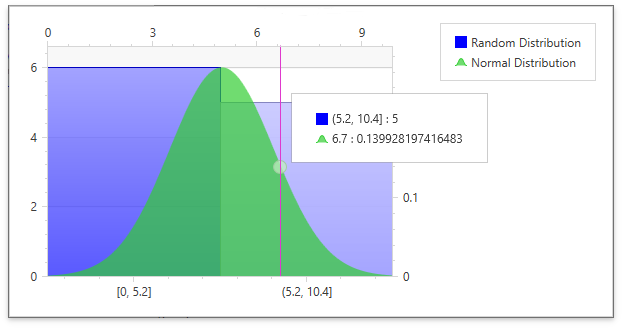
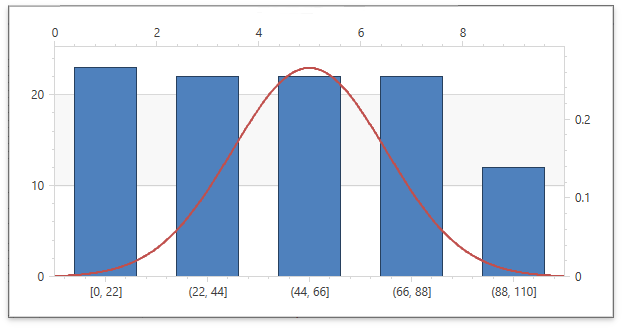
change solutions

diff --git a/VB/Window1.xaml b/VB/Window1.xaml
@@ -1,8 +1,11 @@
 <Window x:Class="SideBySideBar2DChart.Window1" 
         xmlns="http://schemas.microsoft.com/winfx/2006/xaml/presentation" 
         xmlns:x="http://schemas.microsoft.com/winfx/2006/xaml" 
+        xmlns:dxmvvm="http://schemas.devexpress.com/winfx/2008/xaml/mvvm"
         xmlns:dxc="http://schemas.devexpress.com/winfx/2008/xaml/charts" 
-        Title="WPF Chart" Height="350" Width="620">
+        xmlns:local="clr-namespace:SideBySideBar2DChart"
+        Title="WPF Chart" Height="350" Width="620"
+        DataContext="{dxmvvm:ViewModelSource Type=local:ViewModel}">
     <Grid>
         <dxc:ChartControl Name="chartControl1">
             <dxc:ChartControl.Diagram>
@@ -27,42 +30,32 @@
                     </dxc:XYDiagram2D.SecondaryAxesX>
 
                     <dxc:XYDiagram2D.SecondaryAxesY>
-                        <dxc:SecondaryAxisY2D Name="DistributionAxis"/>
+                        <dxc:SecondaryAxisY2D Name="secondaryAxisY"/>
                     </dxc:XYDiagram2D.SecondaryAxesY>
 
                     <dxc:XYDiagram2D.Series>
                         <dxc:BarStackedSeries2D 
-                            BarWidth="1"
-                            x:Name="Bars"
-                            LabelsVisibility="False" 
-                            DisplayName="Random Distribution" 
+                            DataSource="{Binding Histogram}"
+                            DisplayName="Histogram" 
+                            ArgumentDataMember = "XValue"
+                            ValueDataMember = "YValue"
                             ArgumentScaleType="Numerical"
-                            Opacity="0.3"
-                            Brush="Blue"
-                            AggregateFunction="Histogram">
-                            
-                            <dxc:BarStackedSeries2D.Model>
-                                <dxc:TransparentBar2DModel/>
-                            </dxc:BarStackedSeries2D.Model>
-                        </dxc:BarStackedSeries2D>
+                            AggregateFunction="Histogram"/>
 
-                        <dxc:SplineAreaSeries2D
-                            x:Name="Spline"
+                        <dxc:SplineSeries2D
+                            DataSource="{Binding NormalDistribution}"
                             DisplayName="Normal Distribution"
-                            Transparency="0.3"
+                            ArgumentDataMember = "XValue"
+                            ValueDataMember = "YValue"
                             AggregateFunction="None"
                             ArgumentScaleType="Numerical"
                             AxisX="{Binding ElementName=secondaryAxisX}"
-                            AxisY="{Binding ElementName=DistributionAxis}"
-                            Brush="LimeGreen">
-                        </dxc:SplineAreaSeries2D>
+                            AxisY="{Binding ElementName=secondaryAxisY}">
+                        </dxc:SplineSeries2D>
 
                     </dxc:XYDiagram2D.Series>
                 </dxc:XYDiagram2D>
             </dxc:ChartControl.Diagram>
-            <dxc:ChartControl.Legend>
-                <dxc:Legend />
-            </dxc:ChartControl.Legend>
         </dxc:ChartControl>
     </Grid>
 </Window>

diff --git a/CS/Window1.xaml b/CS/Window1.xaml
@@ -1,8 +1,11 @@
 <Window x:Class="SideBySideBar2DChart.Window1" 
         xmlns="http://schemas.microsoft.com/winfx/2006/xaml/presentation" 
         xmlns:x="http://schemas.microsoft.com/winfx/2006/xaml" 
+        xmlns:dxmvvm="http://schemas.devexpress.com/winfx/2008/xaml/mvvm"
         xmlns:dxc="http://schemas.devexpress.com/winfx/2008/xaml/charts" 
-        Title="WPF Chart" Height="350" Width="620">
+        xmlns:local="clr-namespace:SideBySideBar2DChart"
+        Title="WPF Chart" Height="350" Width="620"
+        DataContext="{dxmvvm:ViewModelSource Type=local:ViewModel}">
     <Grid>
         <dxc:ChartControl Name="chartControl1">
             <dxc:ChartControl.Diagram>
@@ -27,42 +30,32 @@
                     </dxc:XYDiagram2D.SecondaryAxesX>
 
                     <dxc:XYDiagram2D.SecondaryAxesY>
-                        <dxc:SecondaryAxisY2D Name="DistributionAxis"/>
+                        <dxc:SecondaryAxisY2D Name="secondaryAxisY"/>
                     </dxc:XYDiagram2D.SecondaryAxesY>
 
                     <dxc:XYDiagram2D.Series>
                         <dxc:BarStackedSeries2D 
-                            BarWidth="1"
-                            x:Name="Bars"
-                            LabelsVisibility="False" 
-                            DisplayName="Random Distribution" 
+                            DataSource="{Binding Histogram}"
+                            DisplayName="Histogram" 
+                            ArgumentDataMember = "XValue"
+                            ValueDataMember = "YValue"
                             ArgumentScaleType="Numerical"
-                            Opacity="0.3"
-                            Brush="Blue"
-                            AggregateFunction="Histogram">
-                            
-                            <dxc:BarStackedSeries2D.Model>
-                                <dxc:TransparentBar2DModel/>
-                            </dxc:BarStackedSeries2D.Model>
-                        </dxc:BarStackedSeries2D>
+                            AggregateFunction="Histogram"/>
 
-                        <dxc:SplineAreaSeries2D
-                            x:Name="Spline"
+                        <dxc:SplineSeries2D
+                            DataSource="{Binding NormalDistribution}"
                             DisplayName="Normal Distribution"
-                            Transparency="0.3"
+                            ArgumentDataMember = "XValue"
+                            ValueDataMember = "YValue"
                             AggregateFunction="None"
                             ArgumentScaleType="Numerical"
                             AxisX="{Binding ElementName=secondaryAxisX}"
-                            AxisY="{Binding ElementName=DistributionAxis}"
-                            Brush="LimeGreen">
-                        </dxc:SplineAreaSeries2D>
+                            AxisY="{Binding ElementName=secondaryAxisY}">
+                        </dxc:SplineSeries2D>
 
                     </dxc:XYDiagram2D.Series>
                 </dxc:XYDiagram2D>
             </dxc:ChartControl.Diagram>
-            <dxc:ChartControl.Legend>
-                <dxc:Legend />
-            </dxc:ChartControl.Legend>
         </dxc:ChartControl>
     </Grid>
 </Window>

diff --git a/CS/Window1.xaml.cs b/CS/Window1.xaml.cs
@@ -4,54 +4,34 @@ using System.Collections.ObjectModel;
 using System.Windows;
 
 namespace SideBySideBar2DChart {
-
     public partial class Window1 : Window {
 
         private Random random = new Random();
         public Window1() {
             InitializeComponent();
+        }
+    }
 
-            RandomDistribution = new ObservableCollection<DataPoint>();
+    public class ViewModel {
+        public ObservableCollection<DataPoint> NormalDistribution { get; private set; }
+        public ObservableCollection<DataPoint> Histogram { get; private set; }
+
+        public ViewModel() {
+            CreateDataSource();
+        }
+
+        private void CreateDataSource() {
+            Random random = new Random();
+
             NormalDistribution = new ObservableCollection<DataPoint>();
+            for(int x = 0; x < 1000; x++)
+                NormalDistribution.Add(new DataPoint(x / 100.0, GetNormalDistribution(x / 100.0, 5, 1.5)));
+
             Histogram = new ObservableCollection<DataPoint>();
-
-            UpdateData();
-
-            Spline.ArgumentDataMember = "XValue";
-            Spline.ValueDataMember = "YValue";
-            Spline.DataSource = NormalDistribution;
-
-            Bars.ArgumentDataMember = "XValue";
-            Bars.ValueDataMember = "YValue";
-            Bars.DataSource = Histogram;
+            for(int x = 0; x <= 100; x++)
+                Histogram.Add(new DataPoint(x, random.Next(100)));
         }
-
-        public ObservableCollection<DataPoint> RandomDistribution { get; set; }
-        public ObservableCollection<DataPoint> NormalDistribution { get; set; }
-        public ObservableCollection<DataPoint> Histogram { get; set; }
-
-        private void UpdateData() {
-            NormalDistribution.Clear();
-            RandomDistribution.Clear();
-            Histogram.Clear();
-
-            double mean = 5;
-            double std = 1.5;
-
-            for (int x = 0; x <= 10; x++) {
-                RandomDistribution.Add(new DataPoint(x, GetNormalDistribution(x, mean, std)));
-            }
-
-            for (int x = 0; x < 100; x++) {
-                NormalDistribution.Add(new DataPoint(x/10.0, GetNormalDistribution(x/10.0, mean, std)));
-            }
-
-            for (int x = 0; x <= 10; x++) {
-                Histogram.Add(new DataPoint(x, random.Next(10)));
-            }
-        }
-
-        private double GetNormalDistribution(double x, double mean, double std) {
+        double GetNormalDistribution(double x, double mean, double std) {
             double tmp = 1 / ((Math.Sqrt(2 * Math.PI) * std));
             return Math.Exp(-Math.Pow((x - mean), 2) / (2 * Math.Pow(std, 2))) * tmp;
         }

diff --git a/CS/DataPoint.cs b/CS/DataPoint.cs
@@ -1,13 +1,5 @@
-using System;
-using System.Collections.Generic;
-using System.Linq;
-using System.Text;
-using System.Threading.Tasks;
-
-namespace SideBySideBar2DChart
-{
-    public class DataPoint
-    {
+namespace SideBySideBar2DChart {
+    public class DataPoint {
         public double XValue { get; set; }
         public double YValue { get; set; }
 
